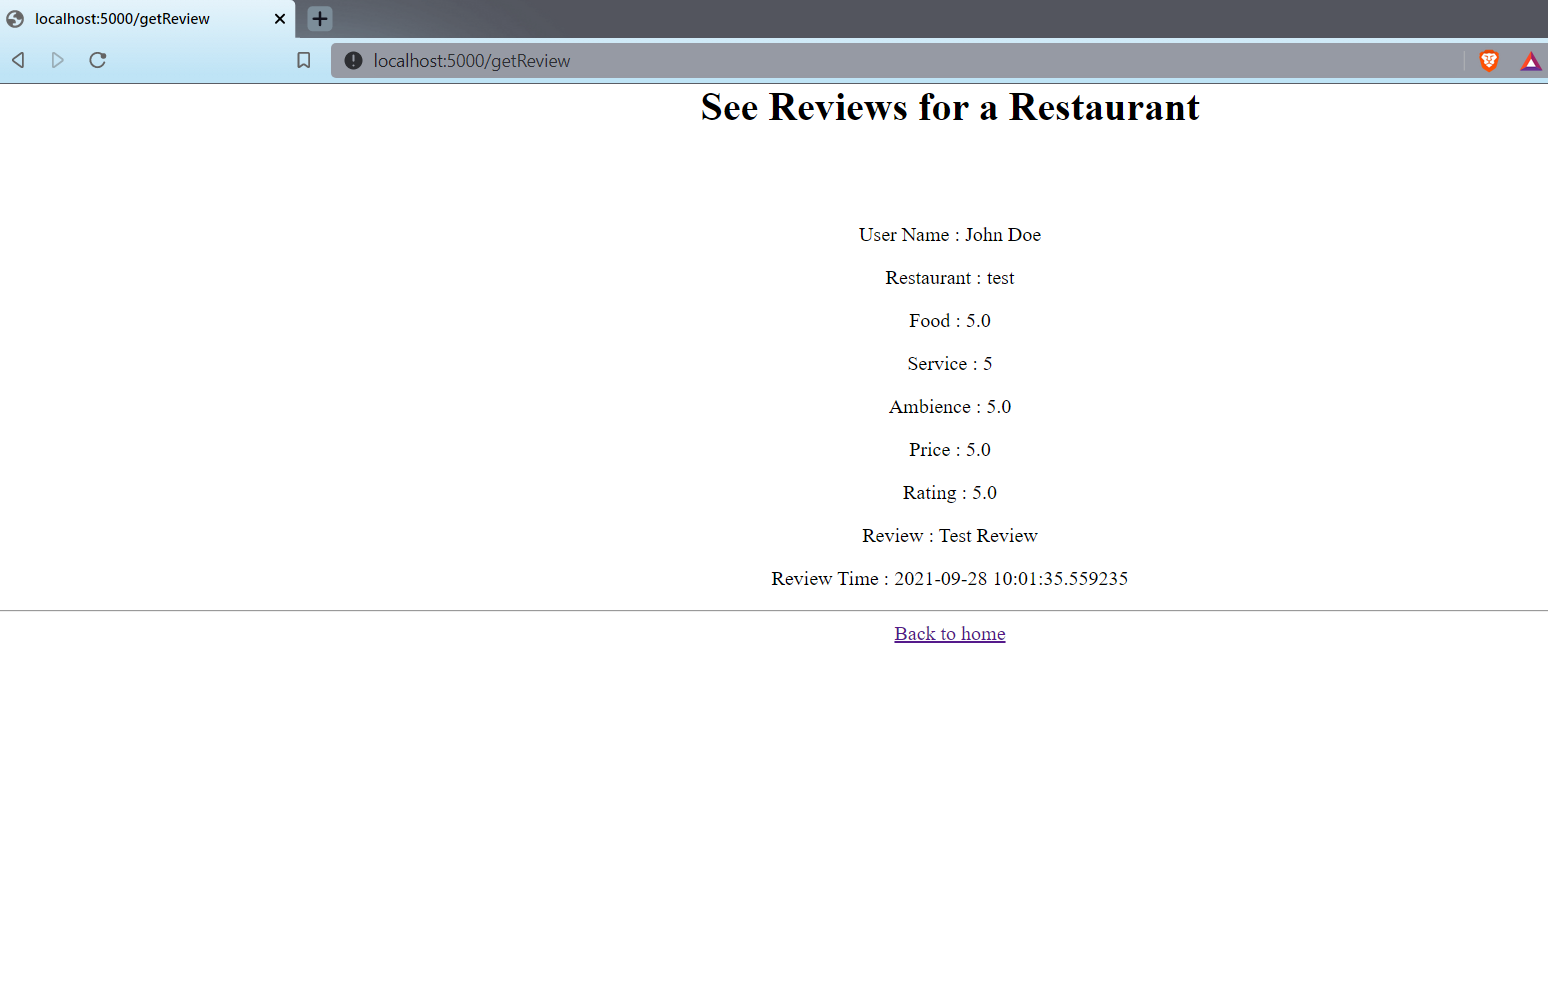
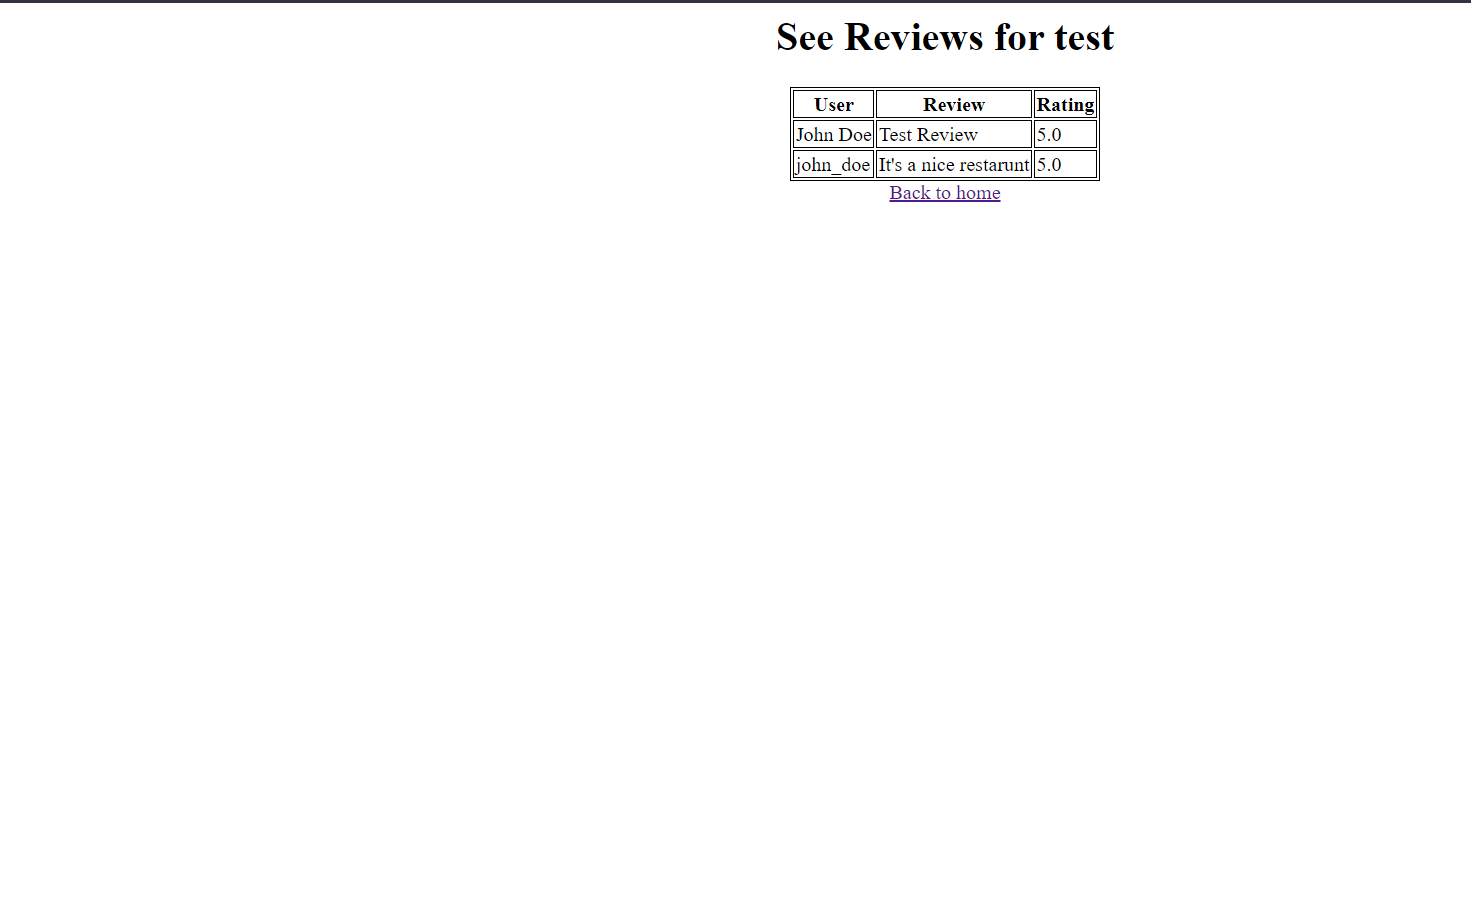
show-review-update

Changed region(s): [[0.0, 0.0, 1.0, 0.3696], [0.4895, 0.4004, 0.7342, 0.5853], [0.5812, 0.6161, 0.6424, 0.6469]]

diff --git a/1-python-sqlite-rest-review/templates/showReviews.html b/1-python-sqlite-rest-review/templates/showReviews.html
@@ -6,25 +6,37 @@
         .main {
             text-align: center;
         }
+         table,
+        th,
+        td {
+            border: 1px solid black;
+        }
+        
+        .center {
+            margin-left: auto;
+            margin-right: auto;
+        }
     </style>
 </head>
 
 <body>
     <div class="main">
-        <h1>See Reviews for a Restaurant</h1>
-
-        <b>{{msg}}</b> <br/><br/> {% for i in data %}
-
-        <p>User Name : {{i[0]}}</p>
-        <p>Restaurant : {{i[1]}}</p>
-        <p>Food : {{i[5]}}</p>
-        <p>Service : {{i[6]}}</p>
-        <p>Ambience : {{i[7]}}</p>
-        <p>Price : {{i[8]}}</p>
-        <p>Rating : {{i[2]}}</p>
-        <p>Review : {{i[3]}}</p>
-        <p>Review Time : {{i[4]}}</p>
-        <hr> {% endfor%}
+        <h1>See Reviews for {{restaurant}}</h1>
+<b>{{msg}}</b>
+        <table class="center">
+            <tr>
+                <th>User</th>
+                <th>Review</th>
+                <th>Rating</th>
+            </tr>
+            {% for i in data %}
+            <tr>
+                <td>{{i[0]}}</td>
+                <td>{{i[4]}}</td>
+                <td>{{i[3]}}</td>
+            </tr>
+            {% endfor %}
+        </table>
         <a href="{{url_for('index')}}">Back to home</a><br/>
     </div>
 </body>

diff --git a/1-python-sqlite-rest-review/app.py b/1-python-sqlite-rest-review/app.py
@@ -1,4 +1,5 @@
 # importing python packages
+import re
 from flask import Flask, render_template, request
 from setup import create_connection
 from datetime import datetime
@@ -63,14 +64,12 @@ def getReview():
             # Establish connection to the database
             conn = create_connection(database)
             cursor = conn.cursor()
-            cursor.execute(f'''SELECT DISTINCT a.username, a.Restaurant, a.Rating, a.Review, a.ReviewTime,
-                                b.Food, b.Service, b.Ambience, b.Price from reviews as a, ratings as b 
-                                where a.Restaurant == '{restaurant}' and a.Restaurant == b.Restaurant''')
+            cursor.execute(f"SELECT * from reviews where Restaurant == '{restaurant}'")
             # Save retrived value
             data = cursor.fetchall()
             # If there is no restruant in the table
             if len(data) != 0:
-                return render_template("showReviews.html", data=data)
+                return render_template("showReviews.html", data=data, restaurant=restaurant)
             else:
                 msg = f"Unable to find review for the restraunt {restaurant}"
                 return render_template("showReviews.html", msg=msg)
@@ -85,10 +84,9 @@ def topRestaurant():
     # Establish connection
     conn = create_connection(database)
     cursor = conn.cursor()
-    cursor.execute('''select DISTINCT a.Restaurant, b.Food, b.Service,
-                    b.Ambience, b.Price, a.Rating from reviews as a, ratings as b
-                    WHERE a.Restaurant == b.Restaurant ORDER BY a.Rating DESC''')
+    cursor.execute("select * from ratings ORDER BY Overall DESC")
     data = cursor.fetchall()
+    print(data)
 
     return render_template("showReport.html", title="Show Report", data=data)
 
